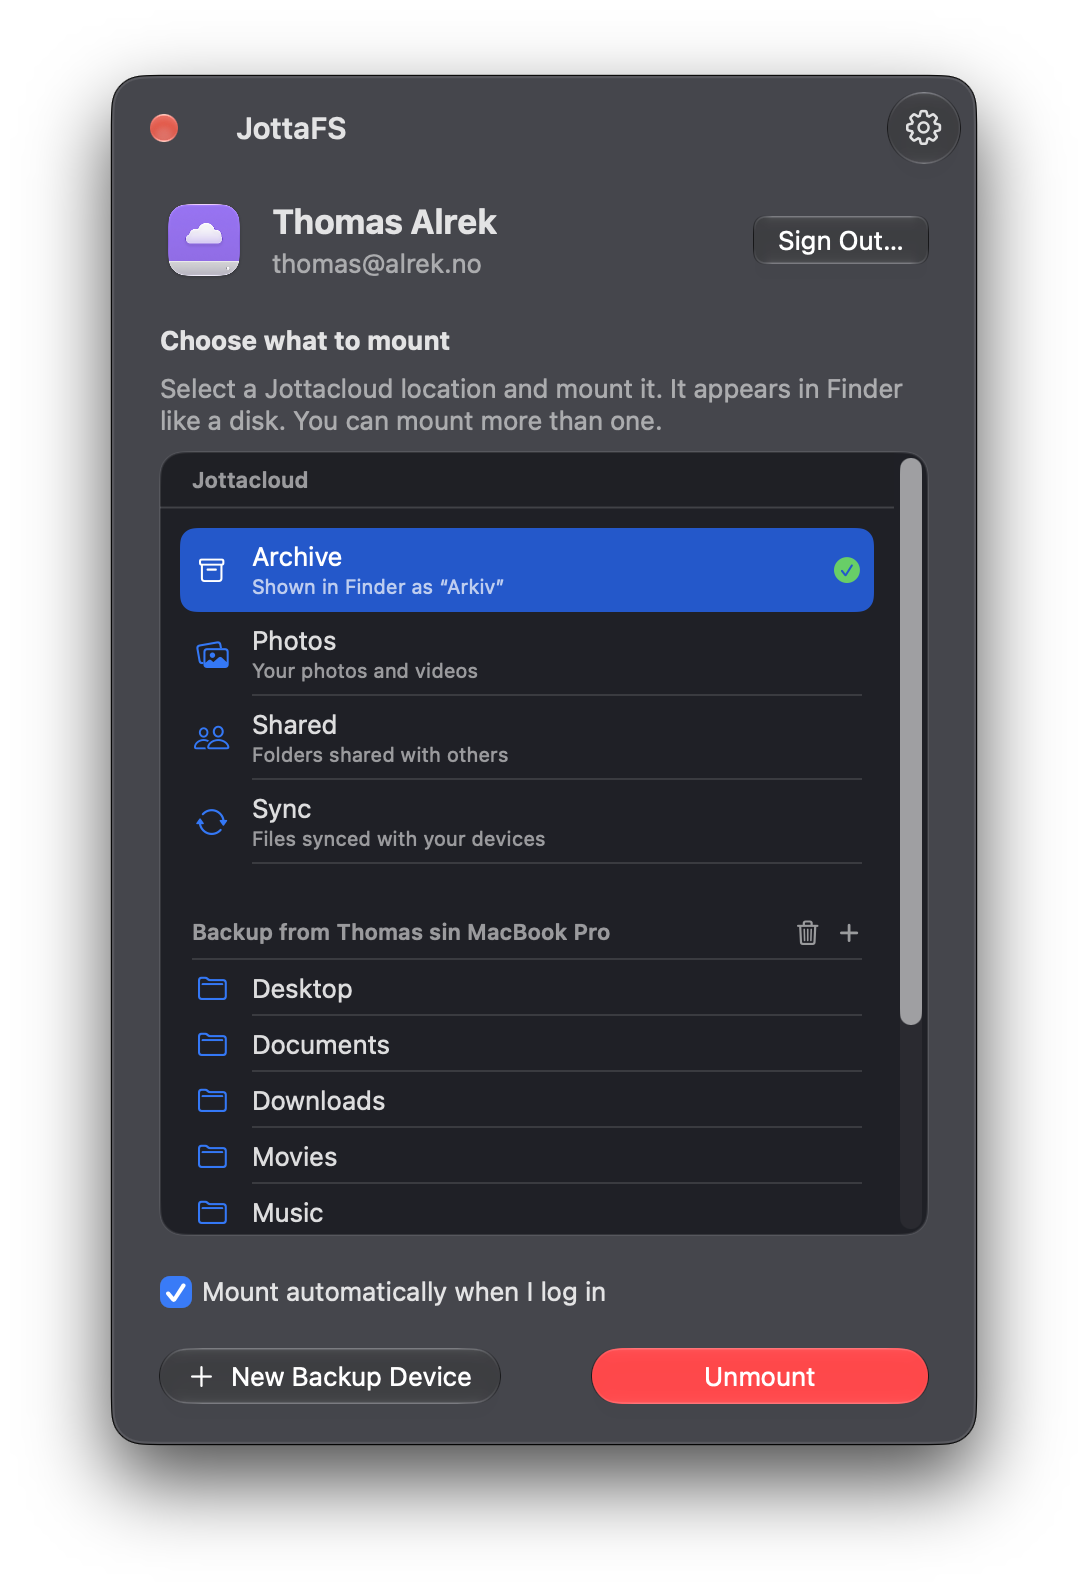
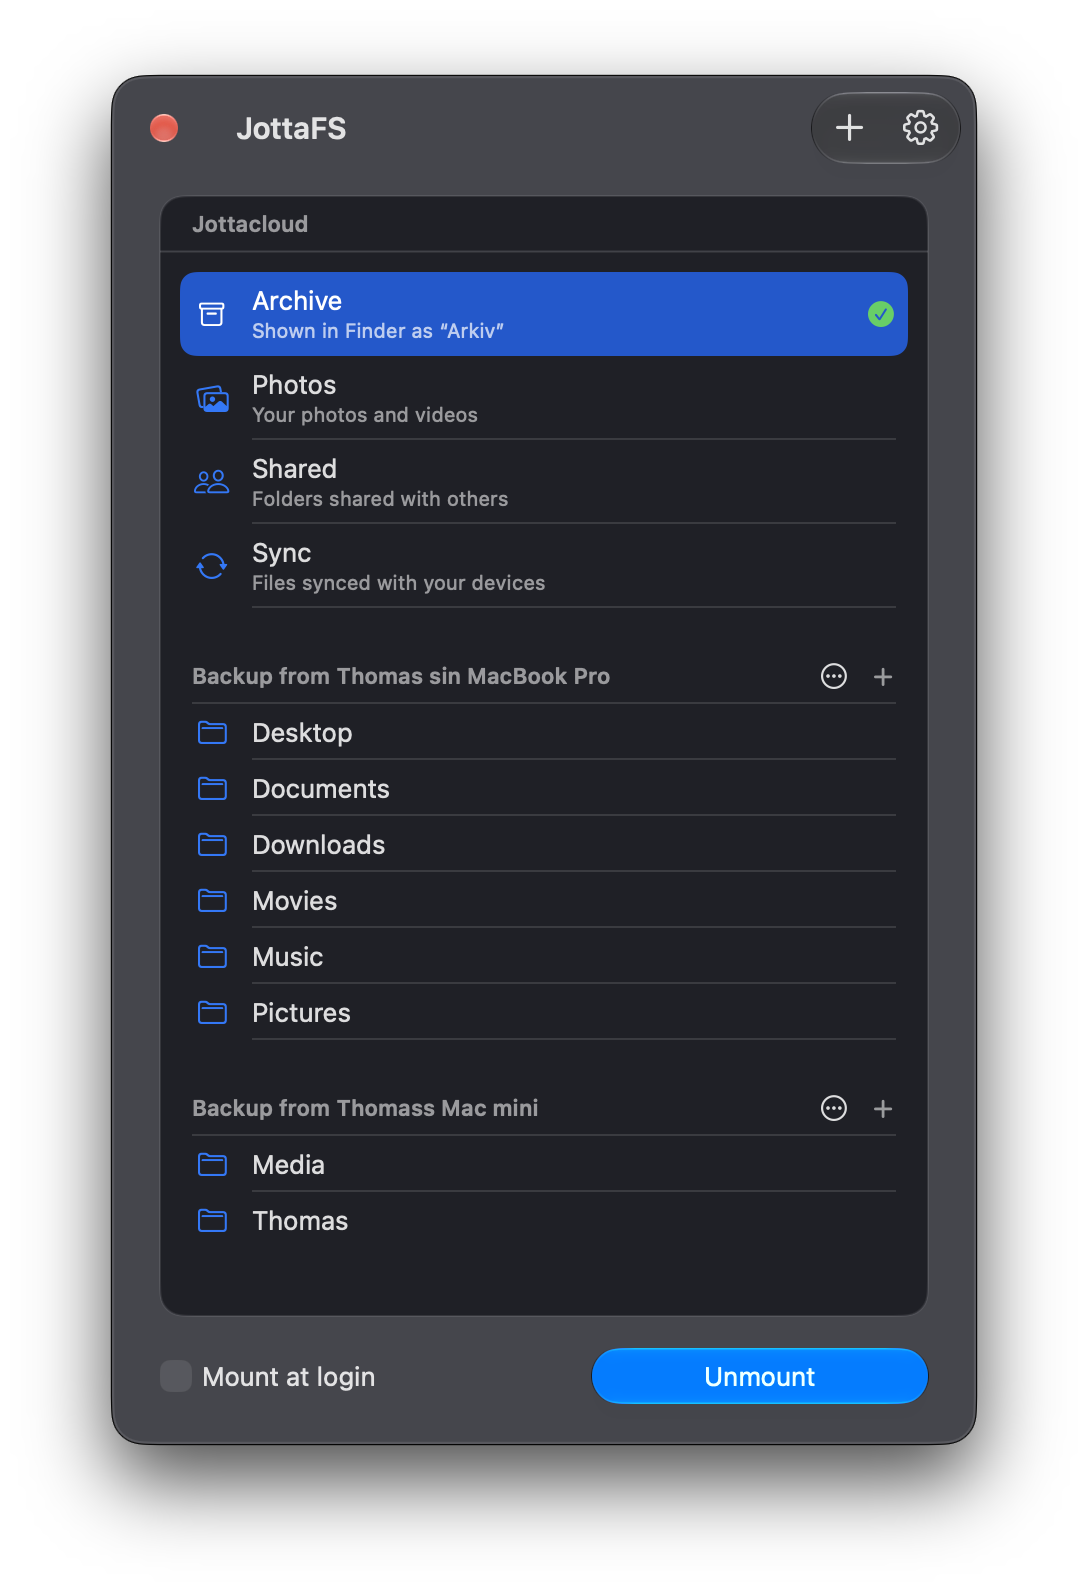
docs: 1.4.2 release notes and a new screenshot of the main window

diff --git a/docs/release-notes/1.4.2.md b/docs/release-notes/1.4.2.md
@@ -1,0 +1,44 @@
+## JottaFS 1.4.2
+
+### New
+
+- **Disks that still use an older version.** A disk keeps the version of
+  JottaFS that mounted it, also after an update. Your disks then do not get
+  the changes of the new version until you mount them again. JottaFS now
+  shows which disks use an older version. Click **Mount Again** to unmount
+  and mount them again. If a file on a disk is open, close it first.
+
+### Fixed
+
+- The check for the correct file system extension (new in 1.4.1) did not
+  see a disk that was mounted before the update.
+
+### Known limits
+
+- Every file on a Jottacloud disk can be run, because Jottacloud stores no
+  file permissions. Finder shows files without a file extension (such as
+  `README`) as Unix executables, and opens them in Terminal.
+- Names with the characters `" * : < > ? | % \` cannot be used, because
+  Jottacloud cannot store them. JottaFS shows a notification with the names.
+  Rename the file, then copy it again.
+- JottaFS keeps a full copy of a file on your Mac before the upload starts,
+  because Jottacloud must know the checksum of the complete file first. Your
+  Mac must have free space for the largest file that you copy. Files upload
+  one at a time.
+- If you stop a copy in Finder, Finder deletes the files that it already
+  copied one at a time. This can take some time for a large folder.
+- Finder does not show changes that you make on jottacloud.com or on a
+  different device until it reads the folder again. Close and open the
+  folder, or unmount the disk and mount it again.
+- You cannot rename the disk in Finder. Control-click the location in
+  JottaFS and choose **Rename** instead.
+- A backup device without locations does not show in JottaFS. If you move
+  the last location of a backup device to the trash, the backup device stays
+  in Jottacloud. To remove it too, delete the backup device instead.
+- The update notification needs you to be signed in. When you are signed
+  out, JottaFS checks for updates only while it is open.
+
+### Requirements
+
+- A Mac with Apple silicon and macOS 27 or later.
+- A Jottacloud account.
